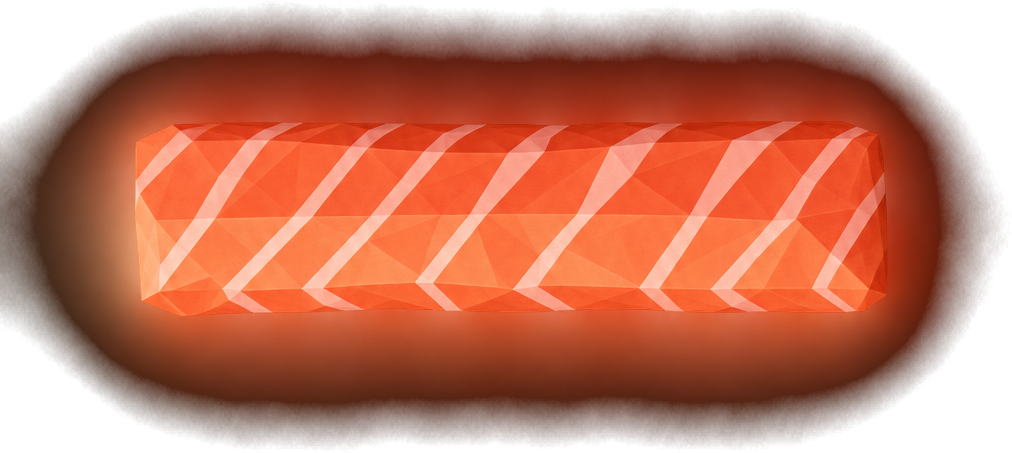
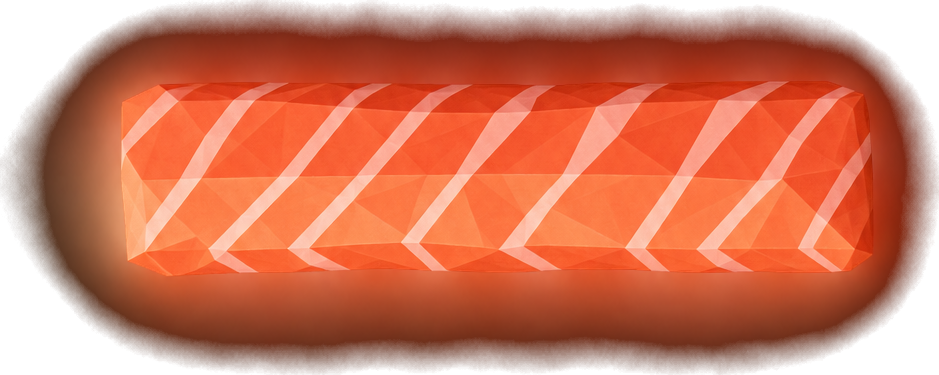
puzzle: keep your-cut as a roll, not exploded wedges

diff --git a/play/board.js b/play/board.js
@@ -129,8 +129,9 @@
   }
 
   function drawSpriteMaki(cx, cy, R, pieces, isTarget) {
+    if (!imgs.maki) return false;
     const size = R * 2.2;
-    if (isTarget && imgs.maki) {
+    if (isTarget || matchScore().pass) {
       ctx.drawImage(imgs.maki, cx - size / 2, cy - size / 2, size, size);
       return true;
     }
@@ -140,7 +141,8 @@
     ctx.drawImage(imgs.base, -size / 2, -size / 2, size, size);
     for (const p of pieces) {
       const t = TARGET.find((x) => x.kind === p.kind);
-      const rot = t ? (p.u - t.u) * TAU * 0.9 : 0;
+      const du = t ? p.u - t.u : 0;
+      const rot = clamp(du * TAU * 0.32, -0.55, 0.55);
       const w = imgs['wedge-' + p.kind];
       if (!w) continue;
       ctx.save();
@@ -318,16 +320,18 @@
     ctx.restore();
 
     if (G.guides) {
-      for (const t of TARGET) {
+      const worst = deltas().filter((d) => d.mm >= 6).sort((a, b) => b.mm - a.mm)[0];
+      if (worst) {
+        const t = TARGET.find((x) => x.kind === worst.kind);
         const r = stripRect(t, rice);
         ctx.save();
         ctx.setLineDash([6, 5]);
         ctx.strokeStyle = INK[t.kind].mark;
         ctx.lineWidth = 2;
-        ctx.globalAlpha = 0.9;
+        ctx.globalAlpha = 0.7;
         rr(r.x, r.y, r.w, r.h, 7); ctx.stroke();
         ctx.fillStyle = INK[t.kind].mark;
-        ctx.globalAlpha = 0.12; rr(r.x, r.y, r.w, r.h, 7); ctx.fill();
+        ctx.globalAlpha = 0.10; rr(r.x, r.y, r.w, r.h, 7); ctx.fill();
         ctx.restore();
       }
     }

diff --git a/play/index.html b/play/index.html
@@ -7,4 +7,4 @@
   canvas{display:block;width:100%;height:100%;touch-action:none}
 </style>
 <canvas id="c"></canvas>
-<script src="board.js?v=5"></script>
+<script src="board.js?v=7"></script>
